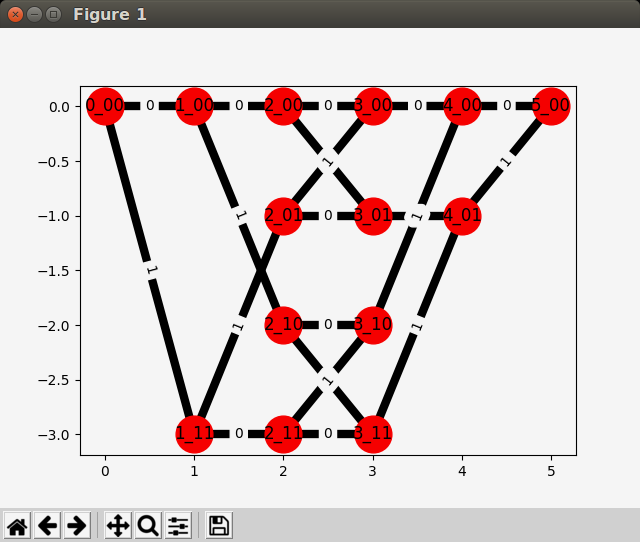
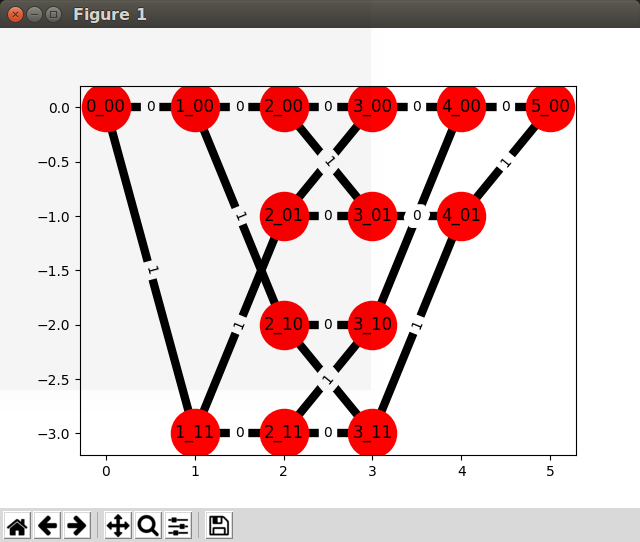
Minor: Add more example

diff --git a/BCJR.py b/BCJR.py
@@ -79,7 +79,7 @@ class BCJR:
         G.add_edges_from(edges)
 
         pos = nx.spring_layout(G) # positions for all nodes
-        nx.draw_networkx_nodes(G,pos_dict,node_size=700,)
+        nx.draw_networkx_nodes(G,pos_dict,node_size=600*self.h)
         nx.draw_networkx_labels(G,pos_dict,font_size=12,font_family='sans-serif')
         nx.draw_networkx_edges(G,pos_dict,edgelist=edges, width=6)
         labels = nx.get_edge_attributes(G,'weight')

diff --git a/README.md b/README.md
@@ -3,5 +3,10 @@
 This Python code can draw a trellis from any linear block code in GF(2^n)
 - Input: csv
 - Output: trellis drawn on the screen
+A (5,3) linear block code over GF(2)
 ![file1](/img/file1.png)
+A (7,3) linear block code over GF(2)
+![file2](/img/file2.png)
+A (5,3) linear block code over GF(4)
+![file3](/img/file3.png)
 
